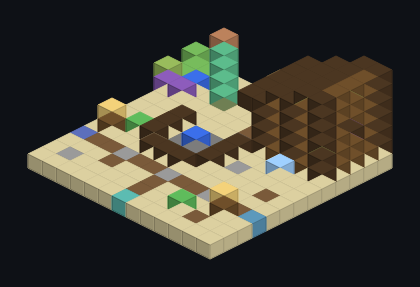
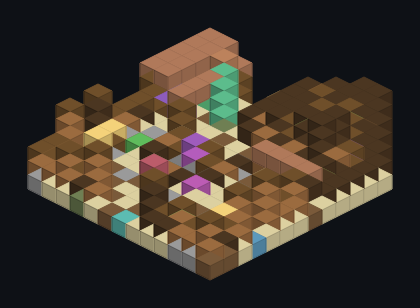
feat(world): palisade, sail lean-to, spit and boarded shack for the island camp (st4b)

diff --git a/art/structures/pirate_island/camp_start.py b/art/structures/pirate_island/camp_start.py
@@ -5,14 +5,23 @@ the sand, row y 0, which sits one block above sea level). Gravel and dirt trails
 campfire ring with log seats, and on to ``path_out`` east and west and ``hut_out`` inland (south). The Jolly Roger
 flies from a flagpole on the beach, the loot heap lies in the north-west corner, and the fence's shack (a 5x5
 lean-to) stands in the north-east corner with the harbor master's desk as the fence's counter, open to the camp
-(west), and a notice board on its south side."""
-from _style import PALETTE, flagpole, torch_post
+(west), and a notice board on its south side.
+
+ST4b: a crude palisade of uneven palm, spruce and dark oak stakes closes the camp's inland sides (gaps for the three
+trails, taller gate posts, a skull on the south gate), the loot heap lies under a striped sailcloth lean-to on fence
+poles, the fire has a roasting spit and driftwood seats, the shack's walls are vertical dark and spruce boards with
+salvaged patches between palm front posts, rafter ends under its eave, a shuttered window and a striped awning over
+the notice board on its south side, lantern posts light the jetty landing and the trail, and gravel, coarse dirt and
+mossy stones gather at the foot of the shack, the flag and the palisade."""
+from _style import (PALETTE, awning, campfire_ring, flagpole, jit, lantern_post, palisade_post, rafter_ends,
+                    sand_skirt, shutter_window, weatherboard)
 from buildspec import Piece
 
 S = 13
 FIRE_X, FIRE_Z = 5, 6                  # the campfire
 SX0, SX1, SZ0, SZ1 = 8, 12, 0, 4       # the fence's shack (front, open, at x 8; back wall at x 12)
 TRAIL_Z = 9                            # the east-west trail between the two path_out connectors
+GATE_X = 6                             # the inland trail (hut_out)
 
 p = Piece("pirate_island_camp_start", "Pirate Beach Camp", (S, 8, S), PALETTE)
 
@@ -24,54 +33,67 @@ for x, z, key in ((2, 5, "coarse"), (10, 11, "coarse"), (1, 11, "gravel"), (11, 
 
 # trails: from the jetty landing to the fire, the east-west trail and the way inland
 for z in range(0, FIRE_Z - 1):
-    p.put(6, 0, z, "gravel" if z % 2 == 0 else "path")
+    p.put(GATE_X, 0, z, "gravel" if z % 2 == 0 else "path")
 for x in range(S):
     p.put(x, 0, TRAIL_Z, ("gravel", "path", "coarse")[x % 3])
 for z in range(TRAIL_Z + 1, S):
-    p.put(6, 0, z, "path")
+    p.put(GATE_X, 0, z, "path")
 
-# the campfire ring: a cobblestone hearth with mossy corners, logs as seats on three sides (open toward the jetty)
-p.fill(FIRE_X - 1, 0, FIRE_Z - 1, FIRE_X + 1, 0, FIRE_Z + 1, "cobble")
-for dx in (-1, 1):
-    for dz in (-1, 1):
-        p.put(FIRE_X + dx, 0, FIRE_Z + dz, "mossy")
-p.put(FIRE_X, 1, FIRE_Z, "minecraft:campfire[facing=north,lit=true,signal_fire=false,waterlogged=false]")
-p.fill(FIRE_X - 2, 1, FIRE_Z - 1, FIRE_X - 2, 1, FIRE_Z + 1, "beam_z")
-p.fill(FIRE_X + 2, 1, FIRE_Z - 1, FIRE_X + 2, 1, FIRE_Z + 1, "beam_z")
-p.fill(FIRE_X - 1, 1, FIRE_Z + 2, FIRE_X + 1, 1, FIRE_Z + 2, "beam_x")
+# the campfire ring: a cobblestone hearth with mossy corners, a roasting spit, log seats on three sides (open toward
+# the jetty), a keg of rum beside the south seat
+campfire_ring(p, FIRE_X, 0, FIRE_Z, seats=("west", "east", "south"), spit=True)
+p.put(FIRE_X + 2, 1, FIRE_Z + 2, "minecraft:barrel[facing=east,open=false]")
 
 # the Jolly Roger on a mossy footing, flying east over open sand
 p.put(3, 0, 2, "mossy")
 flagpole(p, 3, 1, 2, 5, "east")
+sand_skirt(p, 3, 2, 3, 2, reach=1, salt=91, density=0.7)
 
-# the loot heap: barrels, a cargo crate, a chest
+# the loot heap: barrels, a cargo crate, a chest, under a sailcloth lean-to (high at the back, x 0)
 for x, y, z in ((0, 1, 1), (0, 2, 1), (1, 1, 1), (0, 1, 2)):
     p.put(x, y, z, "barrel")
 p.put(0, 1, 3, "pirates_n_ships:cargo_crate")
 p.put(1, 1, 3, "pirates_n_ships:cargo_crate")
 p.put(0, 2, 3, "pirates_n_ships:cargo_barrel")
-p.put(1, 1, 2, "minecraft:chest[facing=east,type=single,waterlogged=false]")
+p.put(1, 1, 2, "minecraft:chest[facing=east,type=single]")
+p.put(1, 2, 3, "minecraft:barrel[facing=north,open=false]")
+awning(p, 0, 0, 1, 4, 4, stripes_along="z", posts=((0, 0), (0, 4)), salt=92)
+awning(p, 2, 0, 2, 4, 3, stripes_along="z", posts=((2, 0), (2, 4)), salt=93)
 
-# the fence's shack: a lean-to of weathered planks on stripped posts, the roof rising from the open front (x 8) to the
-# back wall (x 12) in half-block steps, a floor of planks
+# the fence's shack: a lean-to of weathered planks on palm and stripped posts, the roof rising from the open front
+# (x 8) to the back wall (x 12) in half-block steps, a floor of planks
 p.fill(SX0 + 1, 0, SZ0 + 1, SX1 - 1, 0, SZ1 - 1, "spruce")
 p.put(10, 0, 2, "dark")
 roof = {SX0 - 1: (4, "thatch_low"), SX0: (4, "thatch_high"), SX0 + 1: (5, "thatch_low"), SX0 + 2: (5, "thatch_high"),
         SX0 + 3: (6, "thatch_low"), SX0 + 4: (6, "thatch_high")}
 for x, (y, key) in roof.items():
     p.fill(x, y, SZ0, x, y, SZ1, key)
+for x, z in ((SX0 + 1, 1), (SX0 + 3, 3), (SX0 + 4, 0)):          # mended with spruce
+    y, key = roof[x]
+    p.put(x, y, z, "minecraft:spruce_slab[type=bottom]" if key == "thatch_low"
+          else "minecraft:spruce_slab[type=top]")
 top = {x: (y if key == "thatch_high" else y - 1) for x, (y, key) in roof.items()}   # walls reach under the roof
 for x in range(SX0 + 1, SX1):
     for z in (SZ0, SZ1):
         p.fill(x, 1, z, x, top[x], z, "spruce" if (x + z) % 2 else "dark")
 p.fill(SX1, 1, SZ0 + 1, SX1, top[SX1], SZ1 - 1, "spruce")
+weatherboard(p, SX0 + 1, 1, SZ0, SX1 - 1, 6, SZ0, keys=("dark", "spruce"), salt=94)
+weatherboard(p, SX0 + 1, 1, SZ1, SX1 - 1, 6, SZ1, keys=("spruce", "dark"), salt=95)
+weatherboard(p, SX1, 1, SZ0 + 1, SX1, 6, SZ1 - 1, keys=("spruce", "dark"), salt=96)
 for z in (SZ0, SZ1):
-    p.fill(SX0, 1, z, SX0, top[SX0], z, "post")
+    p.fill(SX0, 1, z, SX0, top[SX0], z, "palm")
     p.fill(SX1, 1, z, SX1, top[SX1], z, "post")
-p.put(SX1, 3, 2, "dark")
+# a sill beam along the foot of the back and side walls
+p.fill(SX0 + 1, 1, SZ0, SX1 - 1, 1, SZ0, "dark_beam_x")
+p.fill(SX1, 1, SZ0 + 1, SX1, 1, SZ1 - 1, "dark_beam_z")
+rafter_ends(p, [(SX0 - 1, SZ0), (SX0 - 1, 2), (SX0 - 1, SZ1)], 3, "east")
+# windows: a barred one toward the sea, a barred one in the back wall, a shuttered one on the south side
+p.put(10, 2, SZ0, "fence")
+p.put(SX1, 3, 2, "fence")
+shutter_window(p, 11, 2, SZ1, "south", sides=("right",), wood="dark_oak")
 # the counter: the harbor master's desk facing the camp, a plank counter top beside it, a gap to step behind
 p.put(SX0 + 1, 1, 2, "pirates_n_ships:harbor_desk[facing=west]")
-p.put(SX0 + 1, 1, 1, "minecraft:spruce_slab[type=top,waterlogged=false]")
+p.put(SX0 + 1, 1, 1, "minecraft:spruce_slab[type=top]")
 p.put(SX0 + 1, 2, 1, "lantern")
 # the fence's stock and a cobweb in the corner
 p.put(11, 1, 1, "pirates_n_ships:cargo_crate")
@@ -79,23 +101,39 @@ p.put(11, 2, 1, "pirates_n_ships:cargo_crate")
 p.put(11, 1, 3, "pirates_n_ships:cargo_barrel")
 p.put(11, 4, 1, "cobweb")
 p.put(10, 4, 3, "cobweb")
-# the notice board against the shack's south wall, facing the camp's trail
+# the notice board against the shack's south wall, facing the camp's trail, under a striped sailcloth awning
 p.put(10, 1, SZ1 + 1, "pirates_n_ships:notice_board[facing=south]")
+awning(p, SX0 + 1, SZ1 + 1, SX1, SZ1 + 1, 3, stripes_along="z", salt=97)
+sand_skirt(p, SX0, SZ0, SX1, SZ1, reach=2, salt=98)
 
-# torches on fence posts at the jetty landing and along the trail
-torch_post(p, 5, 1, 0)
-torch_post(p, 7, 1, 0)
-torch_post(p, 11, 1, TRAIL_Z + 1)
-torch_post(p, 1, 1, TRAIL_Z - 1)
-p.put(9, 1, 11, "minecraft:dead_bush")
-p.put(2, 1, 7, "minecraft:dead_bush")
+# the palisade: uneven stakes along the inland edges with gaps for the trails, taller posts at the gates
+stakes = ([(x, S - 1) for x in range(0, S) if abs(x - GATE_X) > 1]
+          + [(0, z) for z in range(5, S - 1) if z != TRAIL_Z]
+          + [(S - 1, z) for z in range(6, S - 1) if z != TRAIL_Z])
+gate_posts = {(GATE_X - 2, S - 1), (GATE_X + 2, S - 1), (0, TRAIL_Z - 1), (0, TRAIL_Z + 1), (S - 1, TRAIL_Z - 1),
+              (S - 1, TRAIL_Z + 1)}
+for x, z in stakes:
+    height = 3 if (x, z) in gate_posts else 1 + jit(x, 1, z, 99) % 2
+    palisade_post(p, x, 1, z, height=height)
+    sand_skirt(p, x, z, x, z, reach=1, salt=100 + x + z, density=0.35)
+p.put(GATE_X + 2, 5, S - 1, "minecraft:skeleton_skull[powered=false,rotation=8]")
+p.put(GATE_X - 2, 5, S - 1, "torch")
 
-p.connector(6, 0, 0, "jetty_out", "north", "minecraft:gravel")
+# lantern posts at the jetty landing and along the trail
+lantern_post(p, 5, 1, 0)
+lantern_post(p, 7, 1, 0)
+lantern_post(p, 11, 1, TRAIL_Z + 1)
+lantern_post(p, 1, 1, TRAIL_Z - 1)
+p.put(9, 1, 11, "dead_bush")
+p.put(2, 1, 7, "dead_bush")
+
+p.connector(GATE_X, 0, 0, "jetty_out", "north", "minecraft:gravel")
 p.connector(0, 0, TRAIL_Z, "path_out", "west", "minecraft:gravel")
 p.connector(S - 1, 0, TRAIL_Z, "path_out", "east", "minecraft:gravel")
-p.connector(6, 0, S - 1, "hut_out", "south", "minecraft:dirt_path")
+p.connector(GATE_X, 0, S - 1, "hut_out", "south", "minecraft:dirt_path")
 
-p.emit("pirate beach camp: campfire ring, Jolly Roger, loot heap and the fence's lean-to shack",
+p.emit("pirate beach camp: palisade, campfire ring with a spit, Jolly Roger, loot heap under a sail, the fence's "
+       "lean-to shack",
        ["Start piece. Sea to the north: jetty_out at [6, 0, 0], path_out at [0, 0, 9] and [12, 0, 9], "
         "hut_out at [6, 0, 12].",
         "The sand (y 0) sits one block above sea level; the jetty's deck continues it."])
